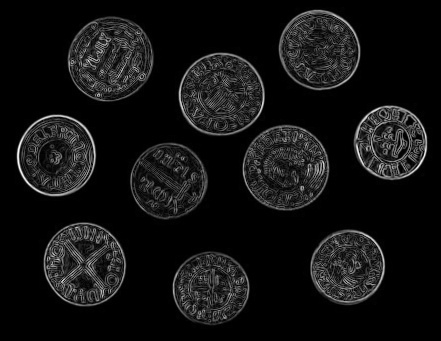
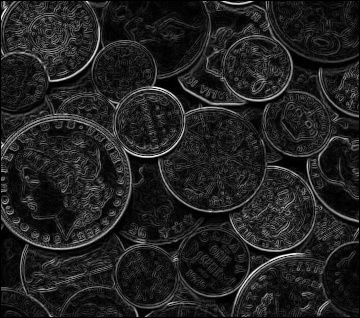
hough transform works

diff --git a/Lab4/hough.cpp b/Lab4/hough.cpp
@@ -26,57 +26,17 @@ int ***malloc3dArray(int dim1, int dim2, int dim3)
     return array;
 }
 
-void sobel(
+Mat sobel(
   cv::Mat &input,
   cv::Mat &output_mag,
   cv::Mat &output_dir);
 
-Mat hough(
+Mat hough_transform(
     cv::Mat magnitude_img,
     cv::Mat direction_img
 );
 
-Mat hough(cv::Mat magnitude_img, cv::Mat direction_img)
-{
-    int center_x = magnitude_img.rows;
-    int center_y = magnitude_img.cols;
-    int radius = max_radius - min_radius + 1;
-    int ***accumulator = malloc3dArray(center_x, center_y, radius);
-
-    for(int x=0; x<magnitude_img.rows; x++)
-    {
-        for(int y=0; y<magnitude_img.cols; y++)
-        {
-            if(magnitude_img.at<uchar> == 255)
-            {
-                for(int r = min_radius, r < max_radius; r++)
-                {   
-                    int x0, y0;
-
-                    // Handling +
-                    x0 = x + r*std::cos(direction_img.at<float>(x, y));
-                    y0 = y + r*std::sin(direction_img.at<float>(x, y));
-
-                    if(x0 >= 0 && y0 >= 0 && x0 < magnitude_img.rows && y0 < magnitude_img.cols)
-                    {
-                        accumulator[x][y][r] += 1;
-                    }
-
-                    // Handling -
-                    x0 = x - r*std::cos(direction_img.at<float>(x, y));
-                    y0 = y - r*std::sin(direction_img.at<float>(x, y));
-
-                    if(x0 >= 0 && y0 >= 0 && x0 < magnitude_img.rows && y0 < magnitude_img.cols)
-                    {
-                        accumulator[x][y][r] += 1;
-                    }
-                }
-            }
-        }
-    }
-}
-
-Mat threshold(Mat input, int value)
+Mat thresholdd(Mat input, int value)
 {
     Mat output = Mat(input.rows, input.cols, CV_8UC1, Scalar(0));
     for(int i=0; i<input.rows; i++)
@@ -94,6 +54,75 @@ Mat threshold(Mat input, int value)
         }
     }
     return output;
+}
+
+Mat hough_transform(cv::Mat magnitude_img, cv::Mat direction_img)
+{
+    int center_x = magnitude_img.rows;
+    int center_y = magnitude_img.cols;
+    int radius = 2*(max_radius - min_radius);
+    int ***accumulator = malloc3dArray(center_x, center_y, radius);
+
+    for(int x=0; x<center_x; x++)
+    {
+        for(int y=0; y<center_y; y++)
+        {
+            for(int z=0; z<radius; z++)
+            {
+                accumulator[x][y][z] = 0;
+            }
+        }
+    }
+
+    for(int x=0; x<magnitude_img.rows; x++)
+    {
+        for(int y=0; y<magnitude_img.cols; y++)
+        {
+            if(magnitude_img.at<uchar>(x, y) == 255)
+            {
+                for(int r = 0; r < radius/2; r++)
+                {   
+                    int x0, y0;
+                    int temp_r = r + min_radius;
+                    // Handling +
+                    x0 = x + temp_r*std::sin(direction_img.at<float>(x, y));
+                    y0 = y + temp_r*std::cos(direction_img.at<float>(x, y));
+
+                    if(x0 >= 0 && y0 >= 0 && x0 < magnitude_img.rows && y0 < magnitude_img.cols)
+                    {
+                        accumulator[x0][y0][r] += 1;
+                    }
+
+                    // Handling -
+                    x0 = x - temp_r*std::sin(direction_img.at<float>(x, y));
+                    y0 = y - temp_r*std::cos(direction_img.at<float>(x, y));
+
+                    if(x0 >= 0 && y0 >= 0 && x0 < magnitude_img.rows && y0 < magnitude_img.cols)
+                    {
+                        accumulator[x0][y0][r+radius/2] += 1;
+                    }
+                }
+            }
+        }
+    }
+
+    Mat hough(magnitude_img.rows, magnitude_img.cols, CV_32FC1, Scalar(0));
+    for(int x=0; x<magnitude_img.rows; x++)
+    {
+        for(int y=0; y<magnitude_img.cols; y++)
+        {
+            for(int r=0; r<radius; r++)
+            {
+                hough.at<float>(x, y) += accumulator[x][y][r];
+            }
+        }
+    }
+
+
+    Mat final_hough(magnitude_img.rows, magnitude_img.cols, CV_8UC1, Scalar(0));
+    cv::normalize(hough, final_hough, 0, 255, NORM_MINMAX);
+
+    return final_hough;
 }
 
 int main( int argc, char** argv )
@@ -117,18 +146,28 @@ int main( int argc, char** argv )
   Mat image_mag(gray_image.rows, gray_image.cols, CV_32FC1, Scalar(0));
   Mat image_dir(gray_image.rows, gray_image.cols, CV_32FC1, Scalar(0));
 
-  sobel(gray_image, image_mag, image_dir);
+  Mat unnormalised_dir = sobel(gray_image, image_mag, image_dir);
 
   Mat magnitude_img = imread( "mag.jpg", 0 );
-  Mat direction_img = imread( "dir.jpg", 0 );  
+//   Mat direction_img = imread( "dir.jpg", 0 );  
 
-  Mat thresholded = threshold(magnitude_img, 75);
-  imwrite("thresholded.jpg", thresholded);
+  Mat thresholded = thresholdd(magnitude_img, 60);
+  cv::imwrite("thresholded.jpg", thresholded);
+  
+  Mat hough = hough_transform(thresholded, unnormalised_dir);
+  cv::imwrite("hough.jpg", hough);
+
+  Mat new_hough = imread("hough.jpg", 0);
+
+  Mat thresholded_hough = thresholdd(new_hough, 60);
+  cv::imwrite("thresholded_hough.jpg", thresholded_hough);
+
+//   Mat recognised(thresholded)
 
   return 0;
 }
 
-void sobel(cv::Mat &input, cv::Mat &output_mag, cv::Mat &output_dir)
+Mat sobel(cv::Mat &input, cv::Mat &output_mag, cv::Mat &output_dir)
 {
   Mat dx_kernel = (Mat_<int>(3, 3) << -1, 0, 1, -2, 0, 2, -1, 0, 1);
 
@@ -157,6 +196,7 @@ void sobel(cv::Mat &input, cv::Mat &output_mag, cv::Mat &output_dir)
     Mat final_dir(output_dir.size(), CV_32FC1);
     cv::normalize(output_mag, final_mag, 0, 255, cv::NORM_MINMAX);
     cv::normalize(output_dir, final_dir, 0, 255, cv::NORM_MINMAX);
-  imwrite( "mag.jpg", final_mag );
-  imwrite( "dir.jpg", final_dir );
+  cv::imwrite( "mag.jpg", final_mag );
+  cv::imwrite( "dir.jpg", final_dir );
+  return output_dir;
 }
